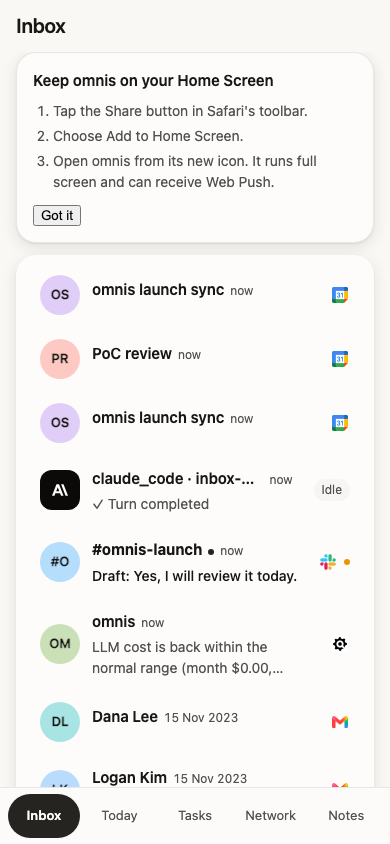
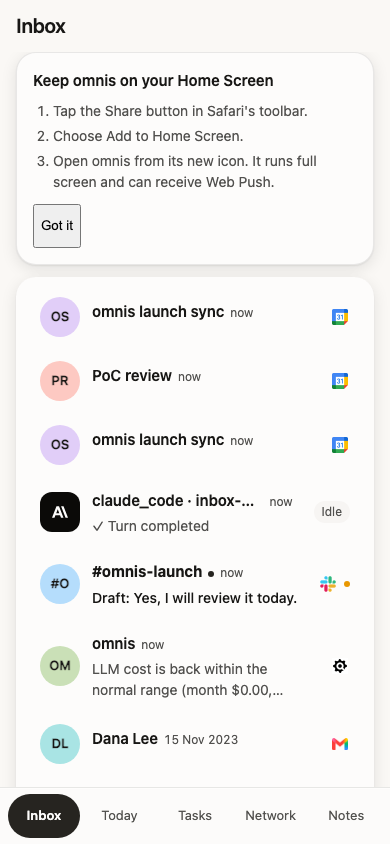
US-B35: the install card's button reaches the phone's 44pt target, and the audits that found it
SKILLS.md's preamble requires two passes over a finished screen — the HIG audit
(apple-design-skill) and the slop detect pass (avoid-ai-design) — and the first one found a real
defect the frames could not show: tap-target size.

- The install card's "Got it" is the one control the guide asks a person to tap, and @omnis/ui's
  Button is desktop-sized (14px text with 6px of vertical padding, no min-height). min-height: 44px
  on .install-card__dismiss brings it to the HIG's mobile default. Measured, not trusted:
  assertTapTargets in the shots tool now reads the box of the card's button, a tab slot and a row on
  every phone-width frame and fails under 44px, and prints the numbers — currently 44.0 / 44.0 /
  64.0px at 390. The two frames were re-shot, which is why inbox-390.png moves.

What the audits said, in full, including the parts left alone:

- HIG: contrast is comfortable everywhere it matters — --text-secondary on the card is 7.76:1 and on
  the canvas 7.49:1, --text-primary 17.51:1, and the selected slot's --accent-fg on --accent 15.19:1
  (computed from the tokens in packages/ui/src/tokens.css, not estimated). Safe areas, the 100dvh
  shell and the reduced-motion path are all in place.
- HIG, not changed: the mobile default text size is 17pt, and the row grammar this app reuses is the
  desktop's scale (15px name / 14px summary / 12px timestamp — DESIGN-DIRECTION P1 pins those
[…]

diff --git a/tools/e2e/shots-w4b-web.ts b/tools/e2e/shots-w4b-web.ts
@@ -147,6 +147,34 @@ async function openInbox(page: Page, expected: Expected): Promise<void> {
   await assertRowMarks(page, expected);
 }
 
+/** HIG (mobile): a control's default size is 44x44pt, its minimum 28. Tap-target size is the one
+ *  thing a screenshot cannot show, so it is measured on the phone frame instead — and it is the check
+ *  that keeps @omnis/ui's desktop-sized Button (14px text, 6px padding) honest where the shell has to
+ *  grow it to the phone's default. */
+const MIN_TAP_TARGET = 44;
+
+async function assertTapTargets(page: Page): Promise<void> {
+  const probes: [string, string][] = [
+    ["the install card's Got it", ".install-card__dismiss"],
+    ["a tab slot", ".tab-bar__tab"],
+    ["an inbox row", '[role="option"]'],
+  ];
+  const measured: string[] = [];
+  for (const [label, selector] of probes) {
+    const box = await page.locator(selector).first().boundingBox();
+    if (box === null) throw new Error(`${label} (${selector}) is not on the frame`);
+    measured.push(`${label} ${box.height.toFixed(1)}px`);
+    if (box.height < MIN_TAP_TARGET) {
+      throw new Error(
+        `${label} is ${box.height.toFixed(1)}px tall at this width — under the ${String(MIN_TAP_TARGET)}px mobile default (${selector})`,
+      );
+    }
+  }
+  // The numbers, not just the pass: a target that shrinks to 44.0 exactly is one CSS edit away from
+  // being under the line, and the log is where that shows up before a person's thumb finds it.
+  console.log(`  tap targets at ${String(page.viewportSize()?.width)}px — ${measured.join(", ")}`);
+}
+
 /** One frame plus the overflow reading, as every other shot tool takes it. */
 async function shoot(page: Page, label: string): Promise<void> {
   // The pointer was left wherever the last click put it, and a row under it draws its hover card —
@@ -199,6 +227,7 @@ async function pass(
       // of the list under a heading.
       await page.waitForSelector(".install-card__step", { timeout: 5_000 });
     }
+    if (size.width <= 480) await assertTapTargets(page);
     await shoot(page, label);
   } finally {
     await page.close();

diff --git a/apps/web/src/app.css b/apps/web/src/app.css
@@ -8,7 +8,14 @@
         and the list is the screen.
      2. Its chrome is held clear of the notch and the home indicator (UX-28). That is what
         index.html's `viewport-fit=cover` turns on: without it every env() below resolves to 0 and
-        the tab bar sits on the home indicator. */
+        the tab bar sits on the home indicator.
+
+   Known gap, recorded rather than silently changed: the HIG's mobile default text size is 17pt, and
+   the row grammar this app reuses is the desktop's scale (15px name, 14px summary, 12px timestamp —
+   DESIGN-DIRECTION P1 pins those numbers). They clear the 11pt minimum and the contrast floor with
+   room to spare, but a phone-sized bump would have to happen in the shared row grammar rather than
+   as a shell override that leaves the rows themselves unchanged. See the audit note in
+   docs/design/screens/w4b/inbox-390.png's commit. */
 
 html,
 body {
@@ -146,6 +153,14 @@ body {
 
 .install-card__step {
   margin-bottom: 4px;
+}
+
+/* HIG (mobile): a control's default size is 44x44pt. @omnis/ui's Button is desktop-sized (14px text
+   with 6px of vertical padding, ~33px tall), which is fine at 1440 and short of the phone's default
+   target for the one control the install guide asks a person to tap. The shots tool measures this
+   rather than trusting it — see assertTapTargets in tools/e2e/shots-w4b-web.ts. */
+.install-card__dismiss {
+  min-height: 44px;
 }
 
 /* The Inbox tab's body: the list as one card on the canvas. Same recipe as the desktop's
